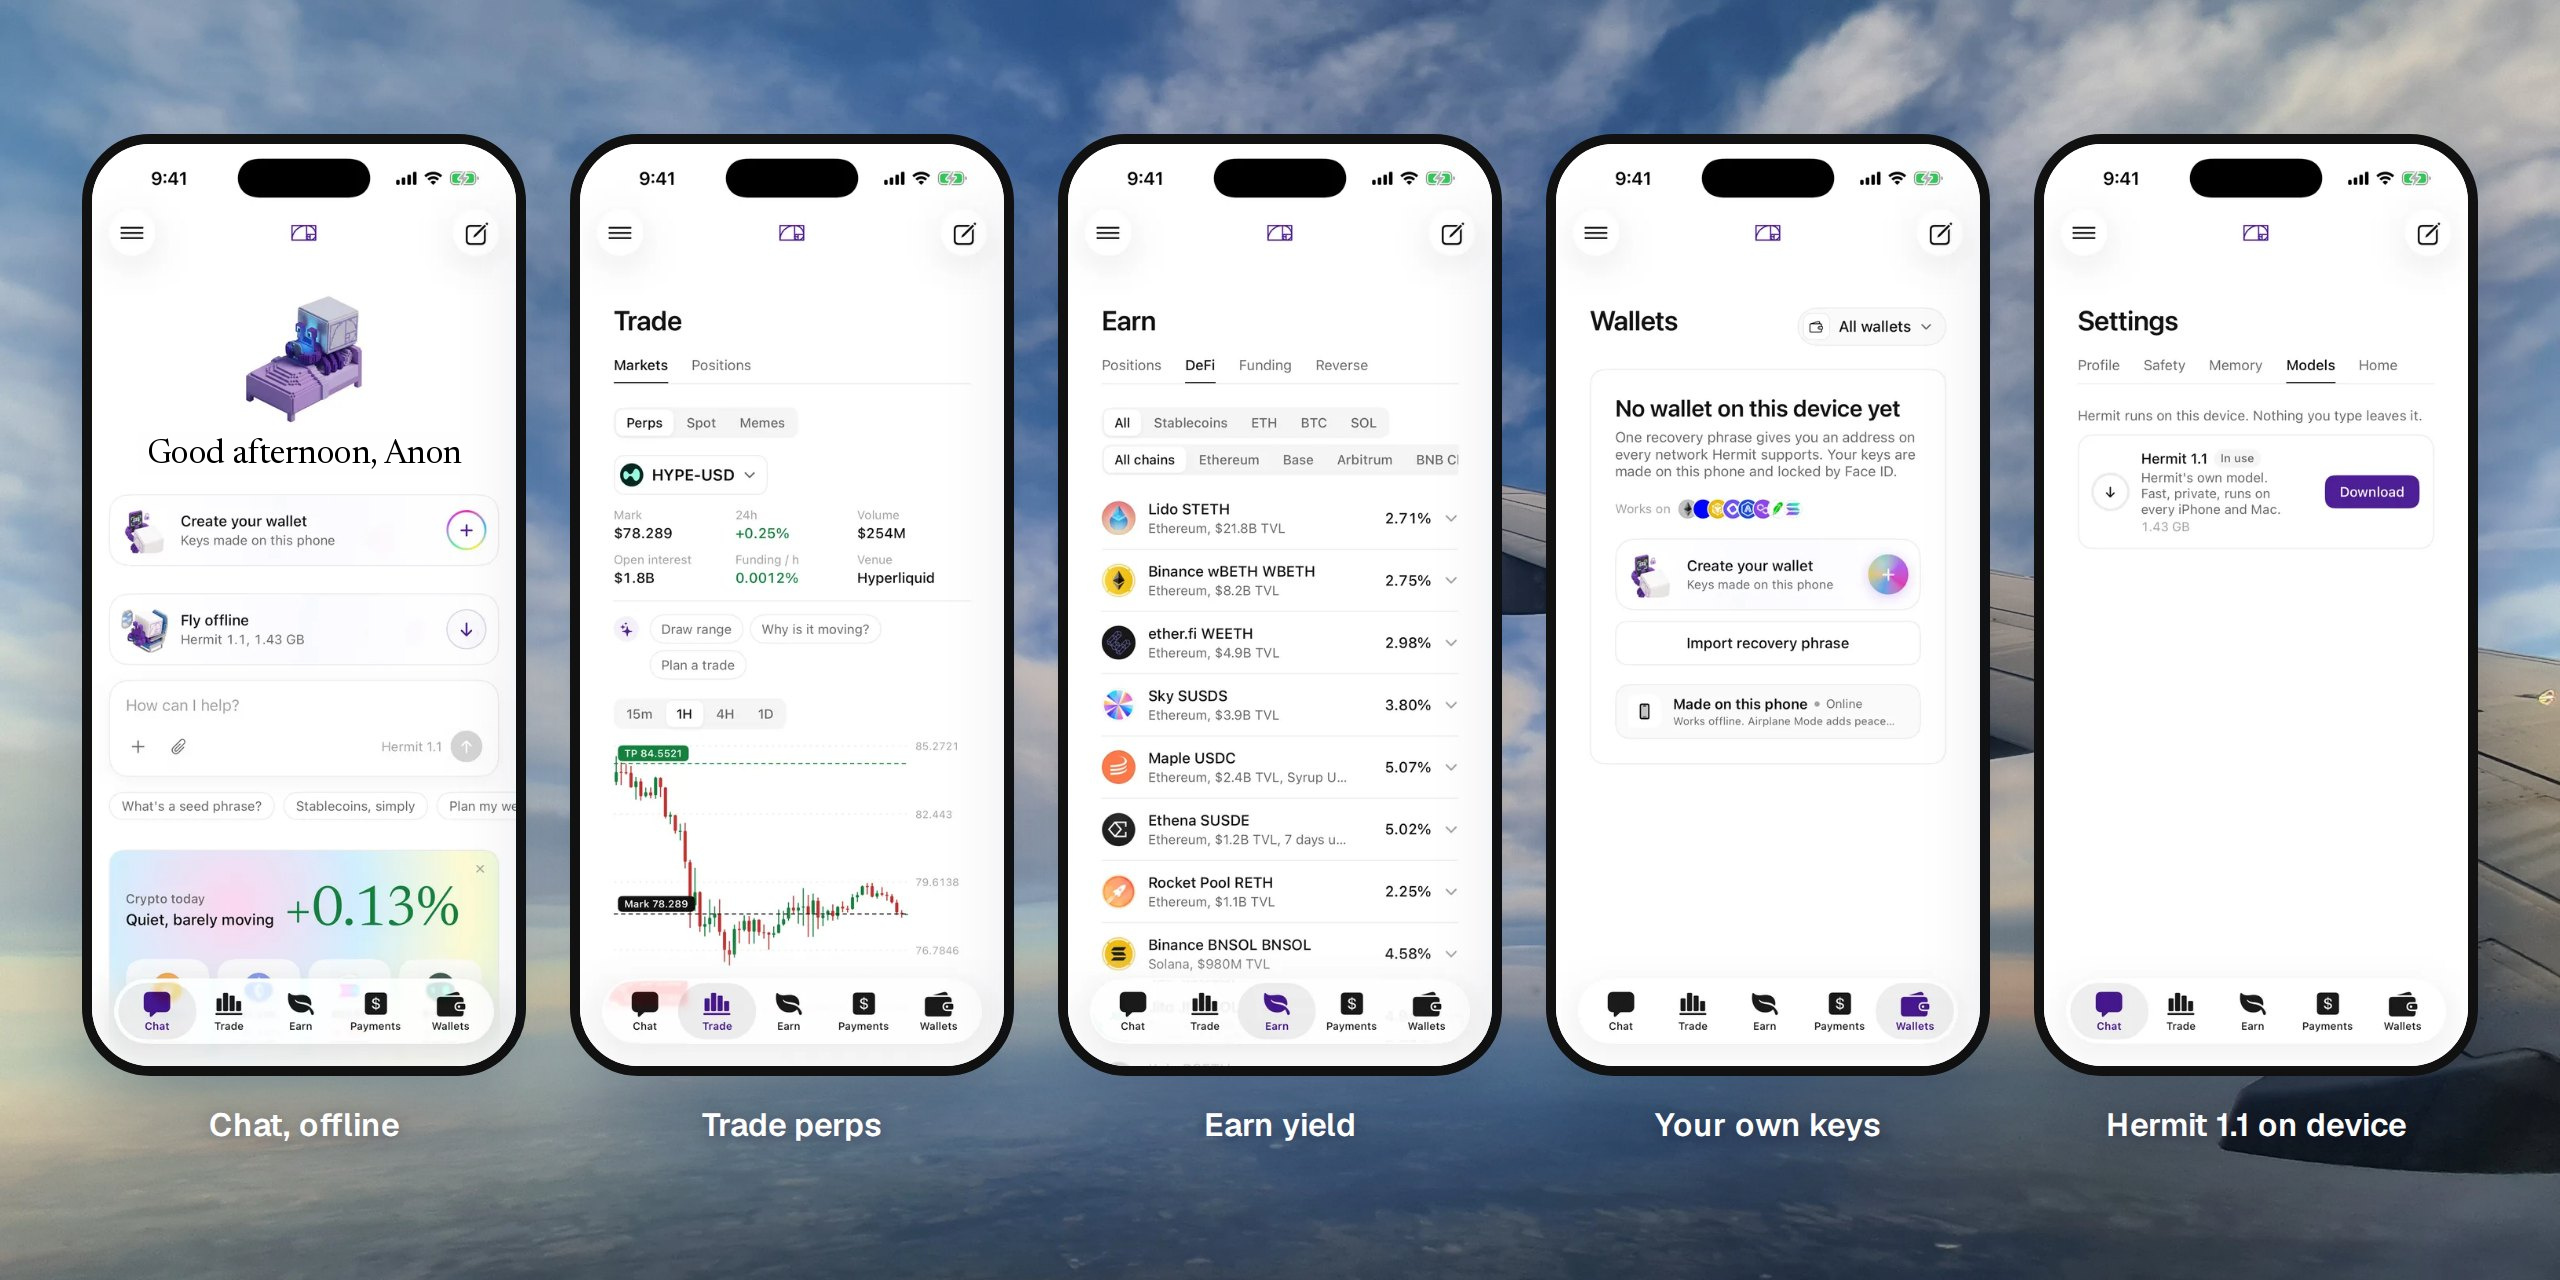
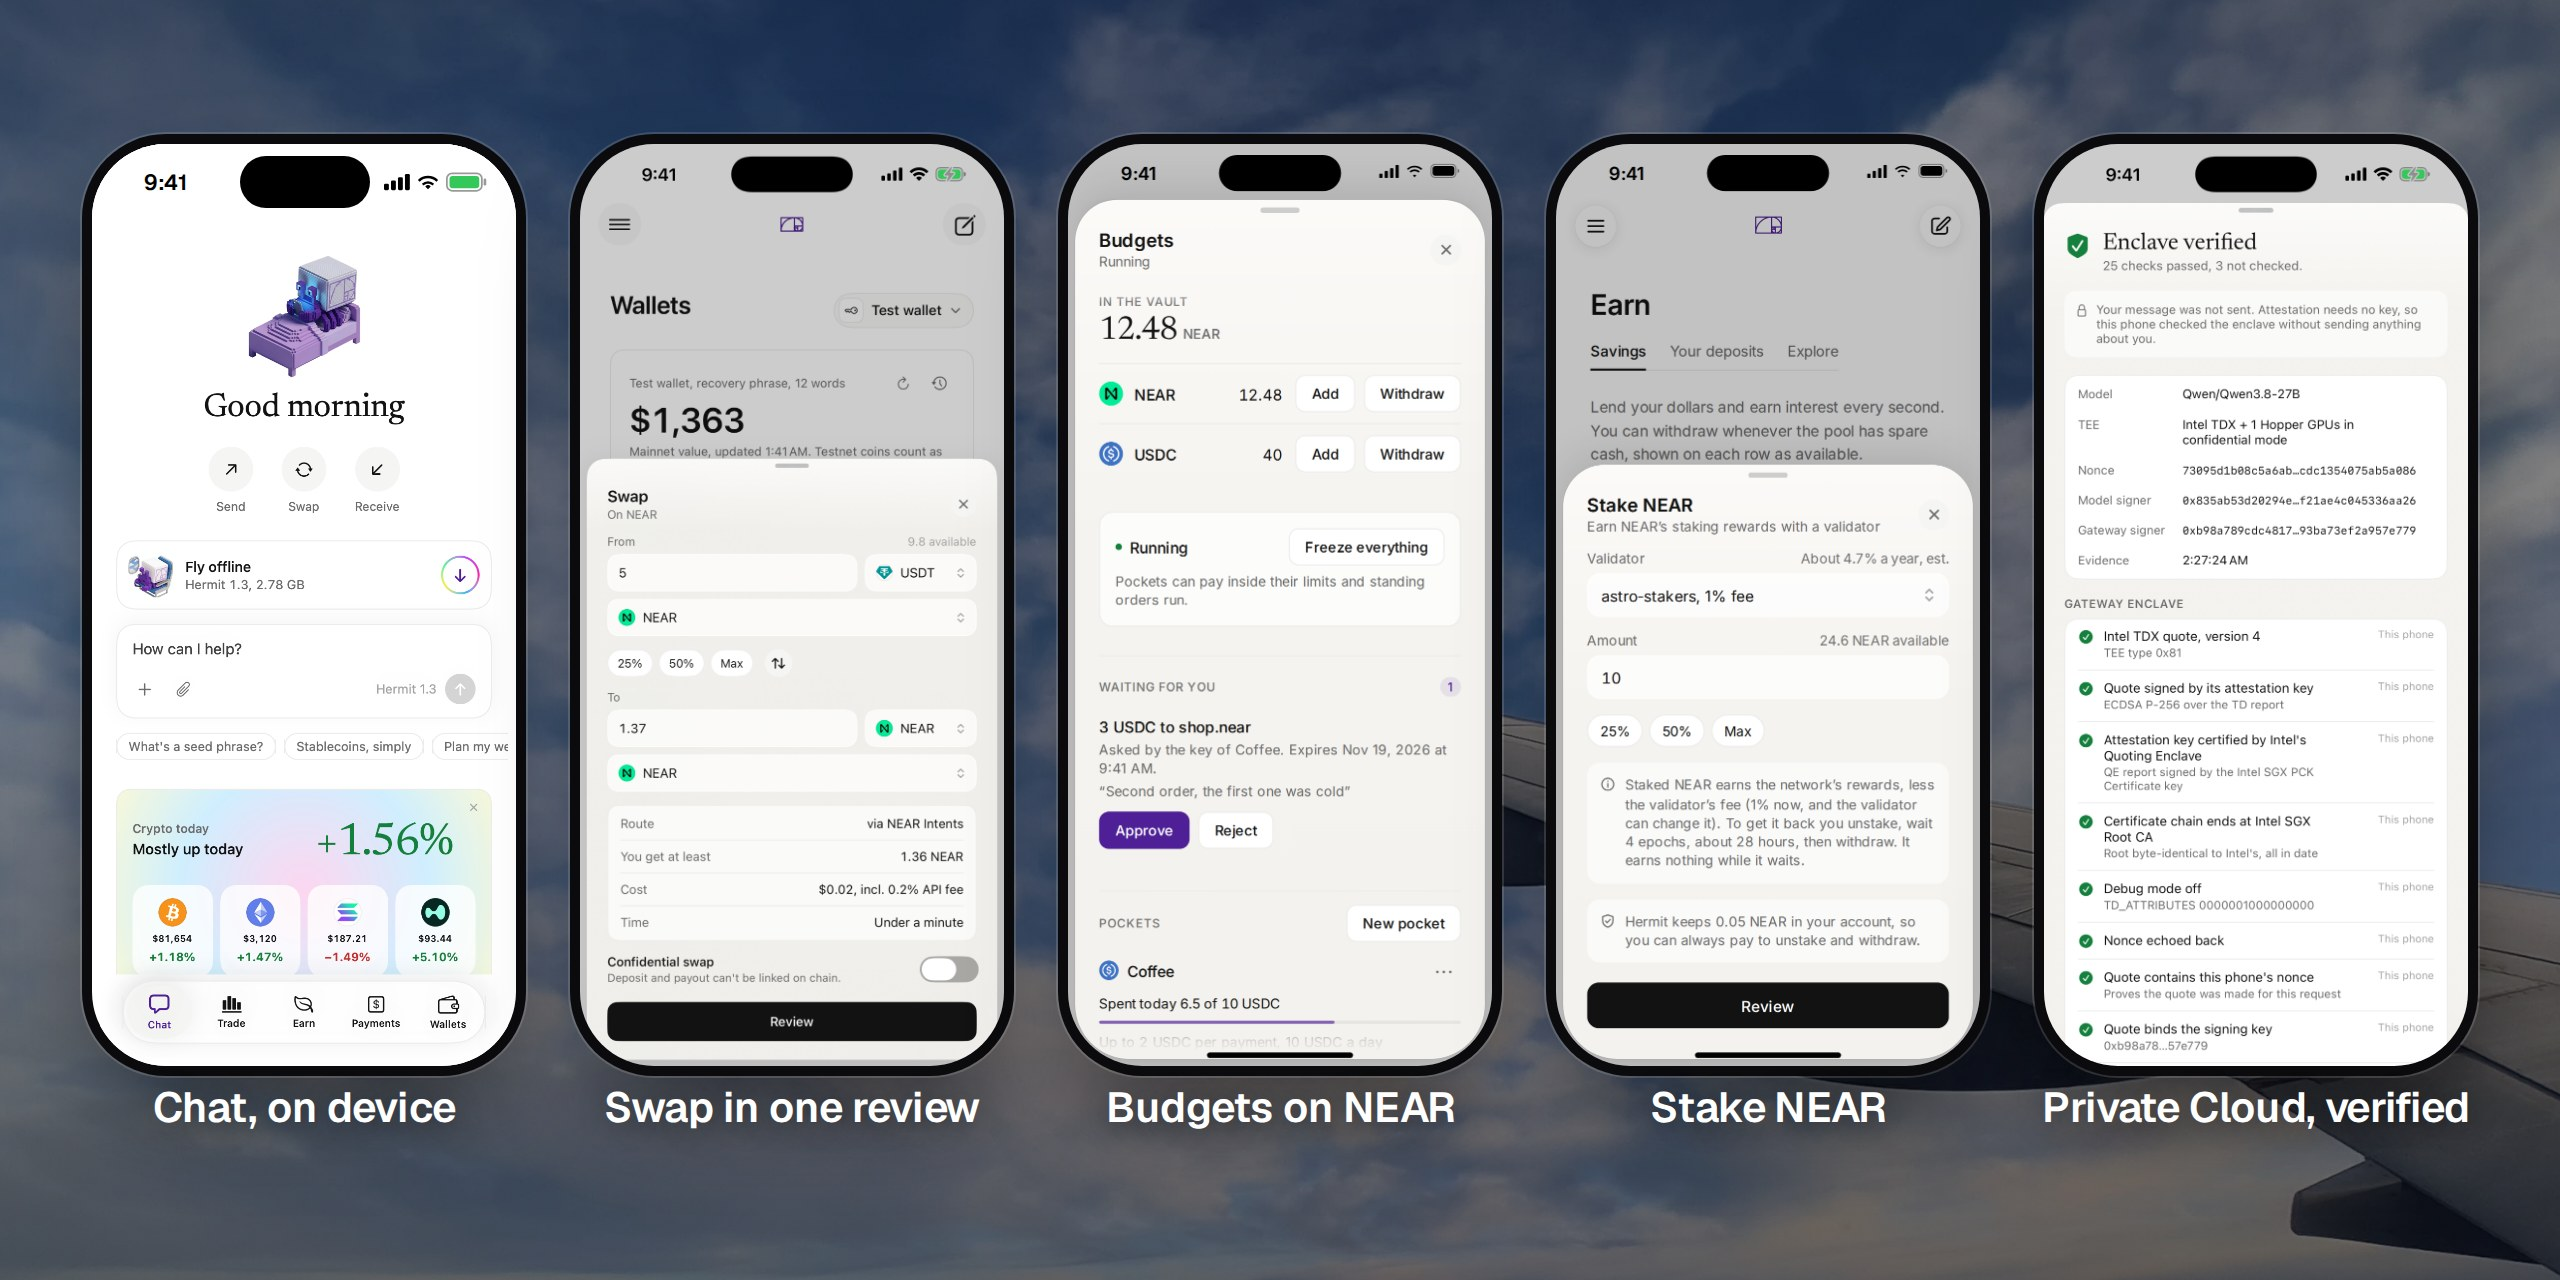
Updated images

diff --git a/profile/README.md b/profile/README.md
@@ -21,7 +21,7 @@ and it keeps answering.
 > **The AI is offline. The money is online.**
 > Reasoning stays on the device. Only a transaction you approved and signed ever leaves it.
 
-<p align="center"><img src="app.jpg" alt="Hermit on iPhone: offline chat, perps trading, DeFi yield, your own wallet and the on-device model"></p>
+<p align="center"><img src="app.jpg" alt="Hermit on iPhone: chat with Hermit 1.3 on the device, a NEAR Intents swap in one review, Budgets on NEAR, staking NEAR, and the Private Cloud enclave proof"></p>
 
 ### Try it
 
